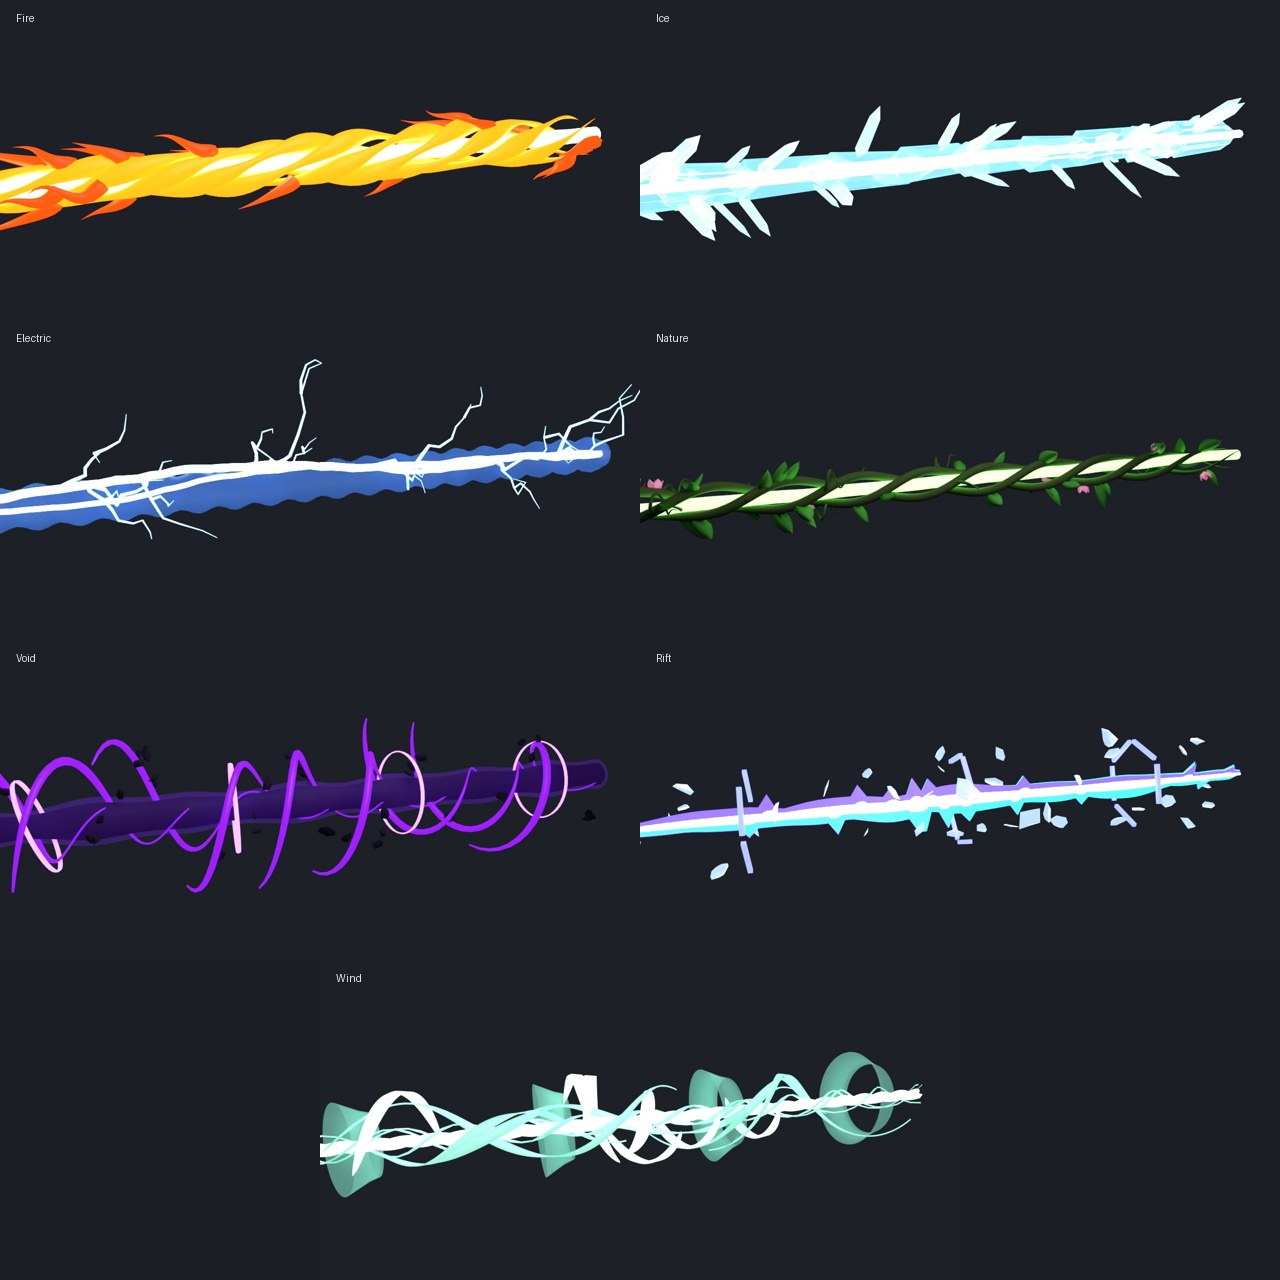
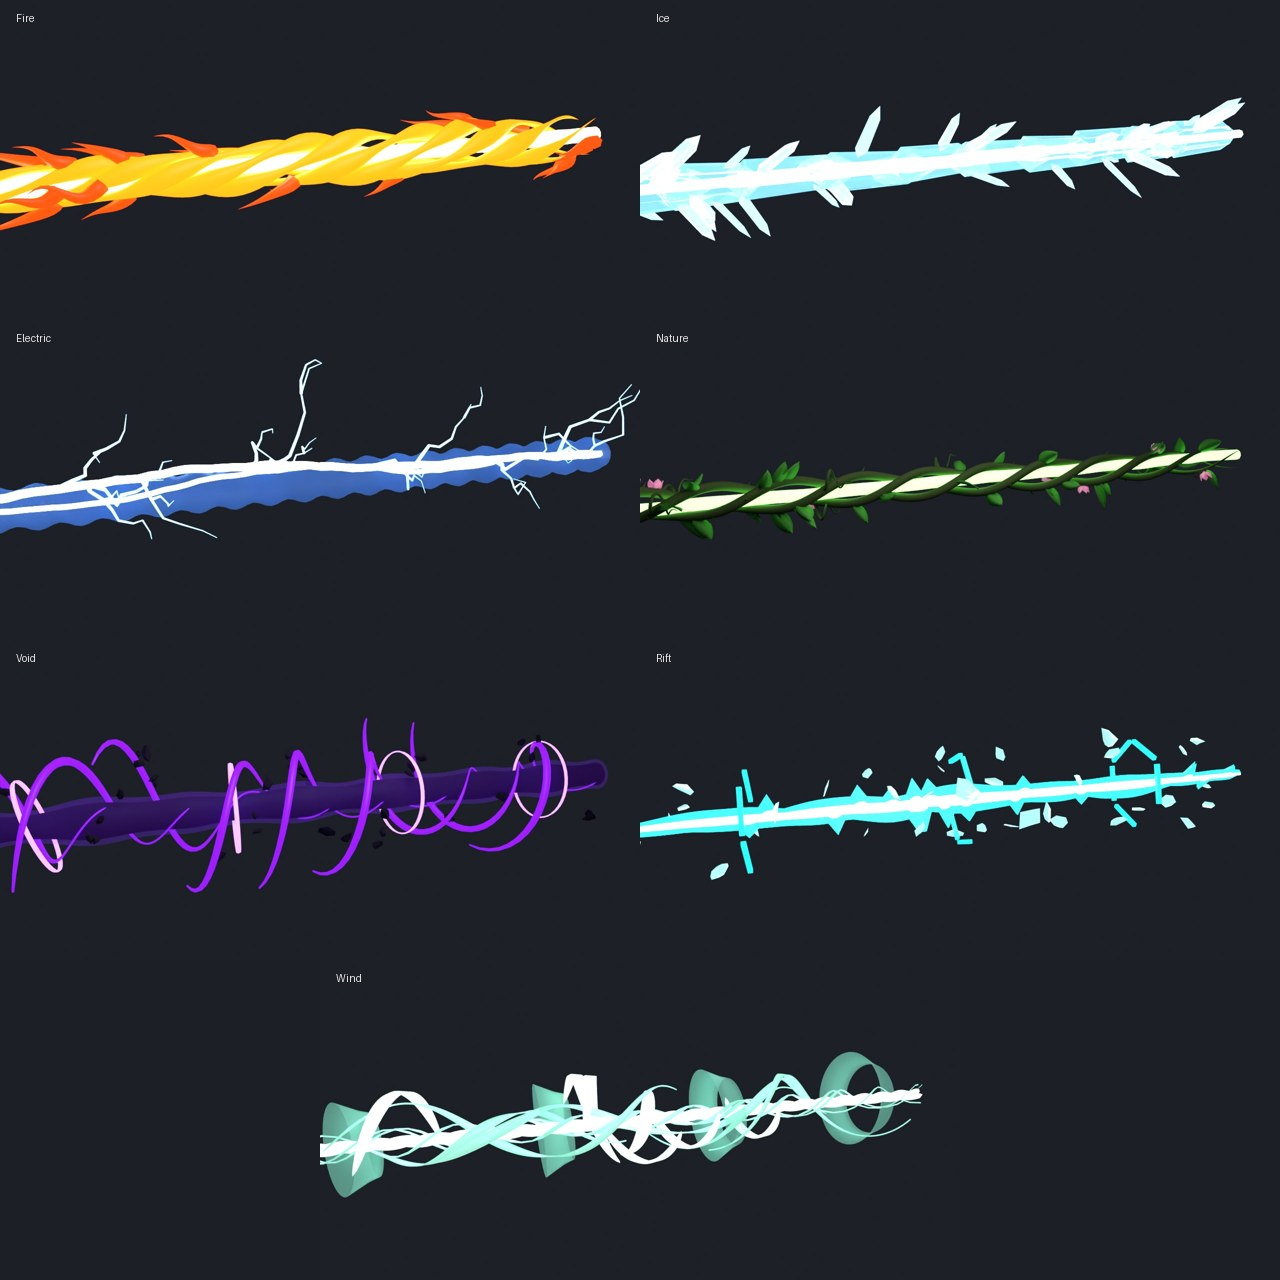
Make the Rift beam a single cyan/teal tone
Both edges are now the same cyan, with a pale cyan tear and fragments and
teal gates. Part names are unchanged, so imported models only need the
updated ElementBeams module.

Claude-Session: https://claude.ai/code/session_013uHW6RqHYn7kEkLfem6E9D

Changed region(s): [[0.5, 0.5625, 0.9688, 0.6875]]

diff --git a/tools/build_element_beams.py b/tools/build_element_beams.py
@@ -441,7 +441,7 @@ def build_void(col):
 
 
 def build_rift(col):
-    """A tear in space: a jagged twisting crack with chromatic indigo/cyan edges, broken glass and gate frames."""
+    """A tear in space: a jagged twisting crack with glowing cyan edges, broken glass and gate frames."""
     rng = random.Random(66)
     steps = 90
     pts = [axis_point(LENGTH * i / steps) for i in range(steps + 1)]
@@ -463,16 +463,16 @@ def build_rift(col):
 
     bm = bmesh.new()
     sweep(bm, pts, tear_profiles(0.75, 0.06, 0))
-    finish(bm, "Tear", col, material("RiftTear", rgb(235, 250, 255), 7), smooth=False)
+    finish(bm, "Tear", col, material("RiftTear", rgb(220, 255, 255), 7), smooth=False)
 
     bm = bmesh.new()
     sweep(bm, pts, tear_profiles(1.0, 0.03, 0.06))
-    # Still named EdgeMagenta (now indigo) so already-imported models keep working.
-    finish(bm, "EdgeMagenta", col, material("RiftIndigo", rgb(90, 70, 255), 3.5), smooth=False)
+    # Still named EdgeMagenta (now cyan) so already-imported models keep working.
+    finish(bm, "EdgeMagenta", col, material("RiftCyan", rgb(40, 220, 230), 3.5), smooth=False)
 
     bm = bmesh.new()
     sweep(bm, pts, tear_profiles(1.0, 0.03, -0.06))
-    finish(bm, "EdgeCyan", col, material("RiftCyan", rgb(50, 230, 255), 3.5), smooth=False)
+    finish(bm, "EdgeCyan", col, material("RiftCyan", rgb(40, 220, 230), 3.5), smooth=False)
 
     bm = bmesh.new()
     for _ in range(40):
@@ -480,7 +480,7 @@ def build_rift(col):
         a = rng.uniform(0, 2 * math.pi)
         r = rng.uniform(0.9, 2.1)
         rock(bm, rng, Vector((r * math.cos(a), y, r * math.sin(a))), rng.uniform(0.15, 0.4), squash=(1.4, 1.0, 0.12), jitter=0.5)
-    finish(bm, "Fragments", col, material("RiftGlass", rgb(200, 225, 255), 0.5, glass=True), smooth=False)
+    finish(bm, "Fragments", col, material("RiftGlass", rgb(190, 245, 245), 0.5, glass=True), smooth=False)
 
     bm = bmesh.new()
     for k, y in enumerate((5, 12, 19)):
@@ -493,7 +493,7 @@ def build_rift(col):
             gap = (b - a) * 0.08
             sq = [(0.07, 0.07), (-0.07, 0.07), (-0.07, -0.07), (0.07, -0.07)]
             sweep(bm, [a + gap, b - gap], [sq, sq])
-    finish(bm, "Gates", col, material("RiftGate", rgb(110, 120, 255), 3), smooth=False)
+    finish(bm, "Gates", col, material("RiftGate", rgb(30, 200, 200), 3), smooth=False)
 
 
 def build_wind(col):

diff --git a/ElementBeams/README.md b/ElementBeams/README.md
@@ -11,7 +11,7 @@ One Blender-made 3D beam per Eternium element, plus a module that drops them int
 | **Electric** | Two intertwined jagged bolts, forking branches and a pulsing plasma sheath | Bolt, Branches, Sheath |
 | **Nature** | Three thorned vines braiding around a living green core, with leaves, curling tendrils and blossoms | Core, Vines, Leaves, Blossoms |
 | **Void** | A light-eating black core inside a violet event horizon, tendrils spiralling inward, orbit rings and debris | Core, Horizon, Tendrils, Rings, Debris |
-| **Rift** | A twisting tear in space with offset indigo/cyan edges, broken-glass fragments and cracked hexagonal gates | Tear, EdgeMagenta, EdgeCyan, Fragments, Gates |
+| **Rift** | A twisting tear in space with glowing cyan edges, broken-glass fragments and cracked hexagonal gates | Tear, EdgeMagenta, EdgeCyan, Fragments, Gates |
 | **Wind** | A tightly wrung three-strand core of air, airflow streaks spiralling round it, translucent shockwave rings and crescent wind blades | Core, Streams, Rings, Blades |
 
 Every model is 24 units long and stays well under Roblox's 20k-triangle limit per part.
